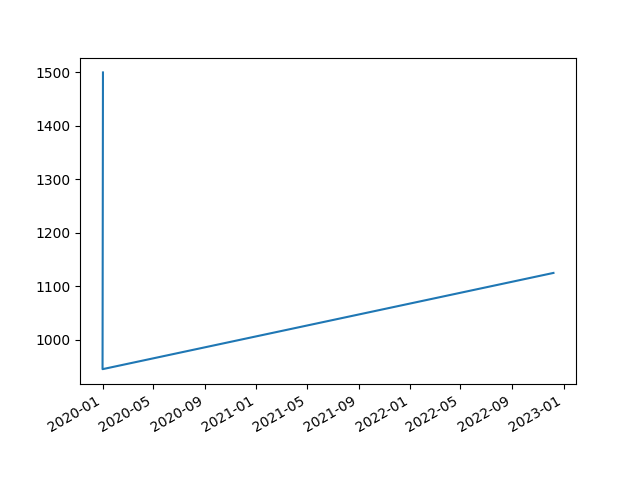
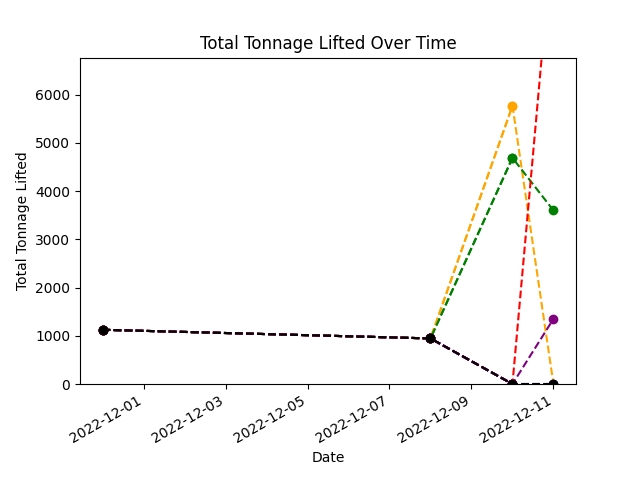
working graph output!

diff --git a/items/processWorkout.py b/items/processWorkout.py
@@ -6,12 +6,8 @@ import datetime
 
 
 class ProcessWorkout():
-    def parse_the_cursed_string():
-        pass
 
     def process():
-        count = 0
-        count_inner = 0
         deadlift = []
         bench = []
         squat = []
@@ -19,56 +15,146 @@ class ProcessWorkout():
         snatch = []
         ohp = []
         dates = []
-        string_of_weight = ''
-        string_of_reps = ''
-        is_weight_flag = True
-        for i in WorkoutEntry.objects.all():
-            if (count == 0):
-                for letter in i.deadlift:
-                    if letter == 'x':
-                        is_weight_flag = False
-                    if letter == ',':
-                        is_weight_flag = True
-                    if is_weight_flag and letter != 'x' and letter != ',':
-                        string_of_weight += letter
-                    if (not is_weight_flag and letter != 'x' and letter != ','):
-                        string_of_reps += letter
-                    if letter == ',':
-                        # reset the weight and reps strings
-                        string_of_weight = ''
-                        string_of_reps = ''
-                        count_inner += 1
-                    print(letter)
-                count = count + 1
-                print('testing reps, weight'+string_of_reps,
-                      " | ", string_of_weight)
-                deadlift.append([
-                    int(string_of_weight), int(string_of_reps)])
-            count = 0
-            is_weight_flag = True
-            string_of_weight = ''
-            string_of_reps = ''
+        deadlift = process_exercise('deadlift')
+        bench = process_exercise('bench')
+        squat = process_exercise('squat')
+        clean = process_exercise('clean')
+        snatch = process_exercise('snatch')
+        ohp = process_exercise('ohp')
 
-        print(i.date)
-        dates.append(i.date)
+        for i in WorkoutEntry.objects.all():
+            dates.append(i.date)
 
         # create the deadliftTonnage list
         deadliftTonnage = []
+        benchTonnage = []
+        squatTonnage = []
+        cleanTonnage = []
+        ohpTonnage = []
+        snatchTonnage = []
+        
+        print('printing deadlift')
+        print(deadlift)
+        deadlift_tonnage_part = 0
+        bench_tonnage_part = 0
+        squat_tonnage_part = 0
+        clean_tonnage_part = 0
+        ohp_tonnage_part = 0
+        snatch_tonnage_part = 0
+        
         for i in deadlift:
-            deadliftTonnage.append(i[0]*i[1])
-
-        deadliftTonnage.append(1500)
-        dates.append(datetime.date(2020, 1, 1))
-        dates.append(datetime.date(2020, 1, 2))
+            for j in i:
+                deadlift_tonnage_part += j[0]*j[1]
+            deadliftTonnage.append(deadlift_tonnage_part)
+            deadlift_tonnage_part = 0
+        for i in bench:
+            for j in i:
+                bench_tonnage_part += j[0]*j[1]
+            benchTonnage.append(bench_tonnage_part)
+            bench_tonnage_part = 0
+        for i in squat:
+            for j in i:
+                squat_tonnage_part += j[0]*j[1]
+            squatTonnage.append(squat_tonnage_part)
+            squat_tonnage_part = 0
+        for i in clean:
+            for j in i:
+                clean_tonnage_part += j[0]*j[1]
+            cleanTonnage.append(clean_tonnage_part)
+            clean_tonnage_part = 0
+        for i in ohp:
+            for j in i:
+                ohp_tonnage_part += j[0]*j[1]
+            ohpTonnage.append(ohp_tonnage_part)
+            ohp_tonnage_part = 0
+        for i in snatch:
+            for j in i:
+                snatch_tonnage_part += j[0]*j[1]
+            snatchTonnage.append(snatch_tonnage_part)
+            snatch_tonnage_part = 0
 
         print(deadliftTonnage)
         print(dates)
 
         # plot the values
-        plt.plot(dates, deadliftTonnage)
+       # plot the values
+        plt.plot(dates, deadliftTonnage, color="orange",
+                 marker="o", linestyle="dashed")
+# add the bench line to the chart
+        plt.plot(dates, benchTonnage, color="blue",
+                 marker="o", linestyle="dashed")
+        # add the squat line to the chart
+        plt.plot(dates, squatTonnage, color="green",
+                 marker="o", linestyle="dashed")
+        # add the clean line to the chart
+        plt.plot(dates, cleanTonnage, color="red",
+                 marker="o", linestyle="dashed")
+        # add the ohp line to the chart
+        plt.plot(dates, ohpTonnage, color="purple",
+                 marker="o", linestyle="dashed")
+        # add the snatch line to the chart
+        plt.plot(dates, snatchTonnage, color="black",
+                    marker="o", linestyle="dashed")
+
 
         # set the x-axis to the dates
         plt.gcf().autofmt_xdate()
 
+        # add labels for the x- and y-axes
+        plt.xlabel("Date")
+        plt.ylabel("Total Tonnage Lifted")
+        # add a title to the chart
+        plt.title("Total Tonnage Lifted Over Time")
+        max_deadlift_tonnage = max(deadliftTonnage)
+        plt.ylim(0, max_deadlift_tonnage+1000)
+        # show the plot
+
         # show the plot
         plt.savefig('items/templates/items/plot.png')
+
+
+def process_exercise(exercise):
+    count = 0
+    count_inner = 0
+    exercise_set = []
+    dates = []
+    string_of_weight = ''
+    string_of_reps = ''
+    is_weight_flag = True
+    exercise_array = []
+    for i in WorkoutEntry.objects.all():
+        print(i.__getattribute__(exercise))
+        if (count == 0):
+            for letter in i.__getattribute__(exercise):
+                if letter == 'x':
+                    is_weight_flag = False
+                if letter == ',':
+                    is_weight_flag = True
+                if is_weight_flag and letter != 'x' and letter != ',':
+                    string_of_weight += letter
+                if (not is_weight_flag and letter != 'x' and letter != ','):
+                    string_of_reps += letter
+                if letter == ',':
+                    # reset the weight and reps strings
+                    print('testing inner reps, weight'+string_of_reps,
+                          " | ", string_of_weight)
+                    exercise_set.append([int(
+                        string_of_weight), int(string_of_reps)])
+                    string_of_weight = ''
+                    string_of_reps = ''
+                    count_inner += 1
+                    count = count + 1
+                print(letter)
+            print('testing reps, weight'+string_of_reps,
+                  " | ", string_of_weight)
+            exercise_set.append(
+                [int(string_of_weight), int(string_of_reps)])
+            exercise_array.append(exercise_set)
+            print(i.date)
+            dates.append(i.date)
+        count = 0
+        is_weight_flag = True
+        string_of_weight = ''
+        string_of_reps = ''
+        exercise_set = []
+    return exercise_array
